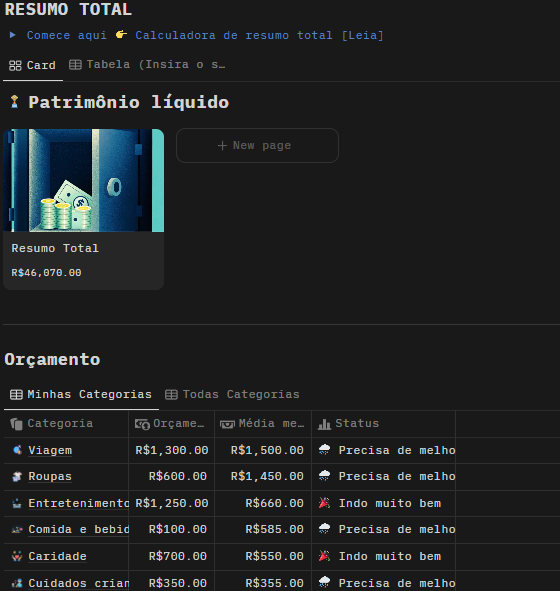
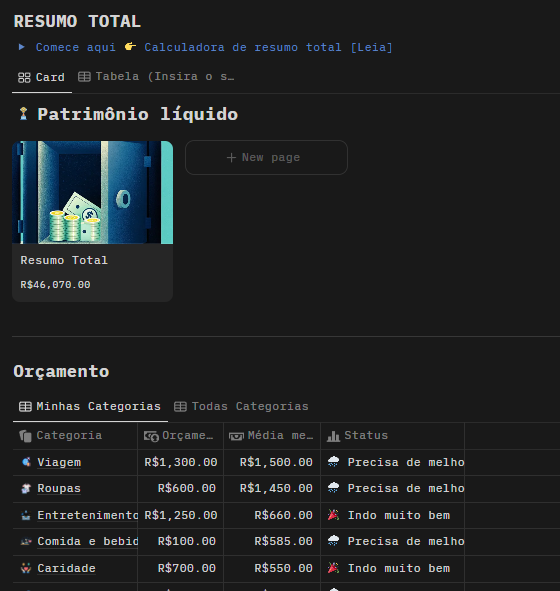
teste

Changed region(s): [[0.0, 0.5482, 1.0, 1.0], [0.0, 0.0, 0.6982, 0.4873], [0.3946, 0.2437, 0.5464, 0.2741]]

diff --git a/src/styles/styles.css b/src/styles/styles.css
@@ -7,7 +7,7 @@
 
 :root {
     --color-primary-1: #E0E1DD;
-    --color-primary-2: #778DA9;
+    --color-primary-2: #191919;
     --color-primary-3: #415A77;
     --color-primary-4: #1B263B;
     --color-primary-5: #C9ADA7;

diff --git a/src/styles/home.css b/src/styles/home.css
@@ -68,7 +68,7 @@
     width: 50%;
     height: 100%;
     position: absolute;
-    border-radius: 40% 30% 0% 20%;
+    border-radius: 15% 15% 0% 15%;
     top: 0;
     right: 0;
     z-index: 1;
